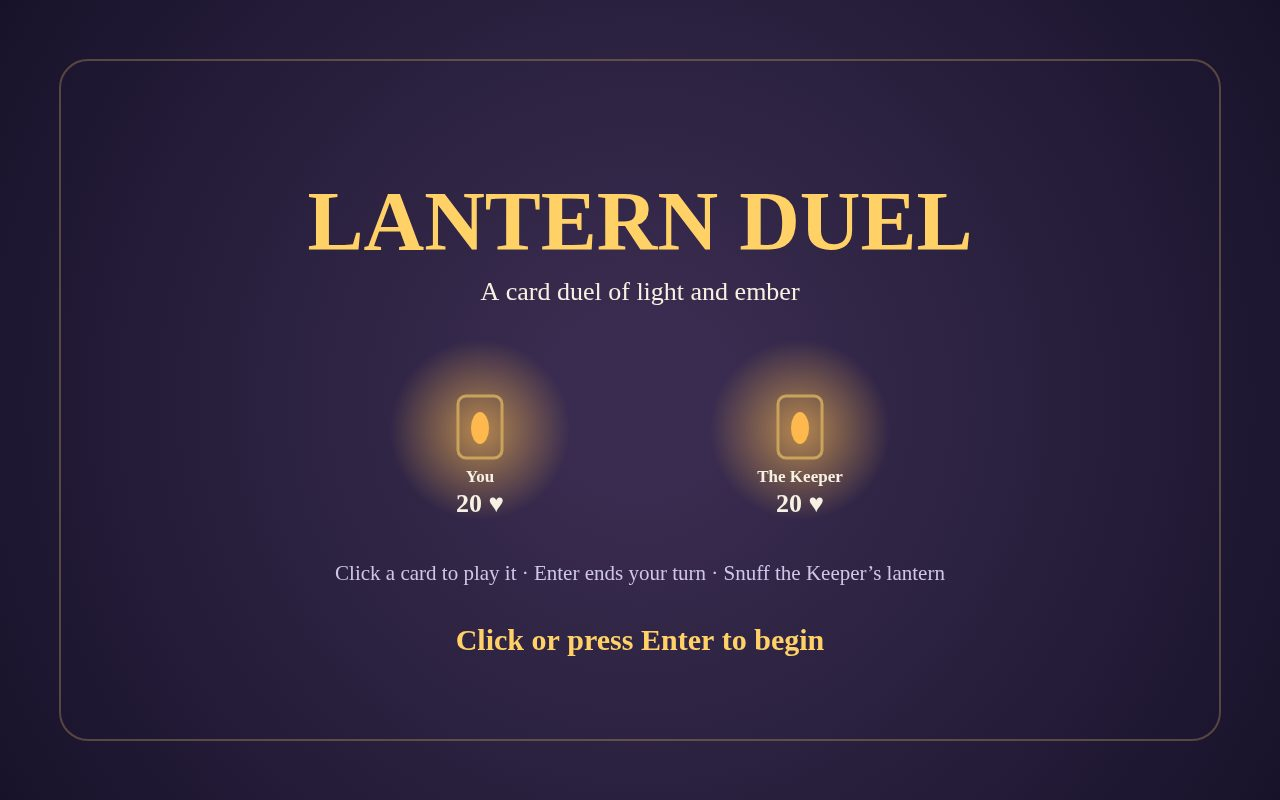
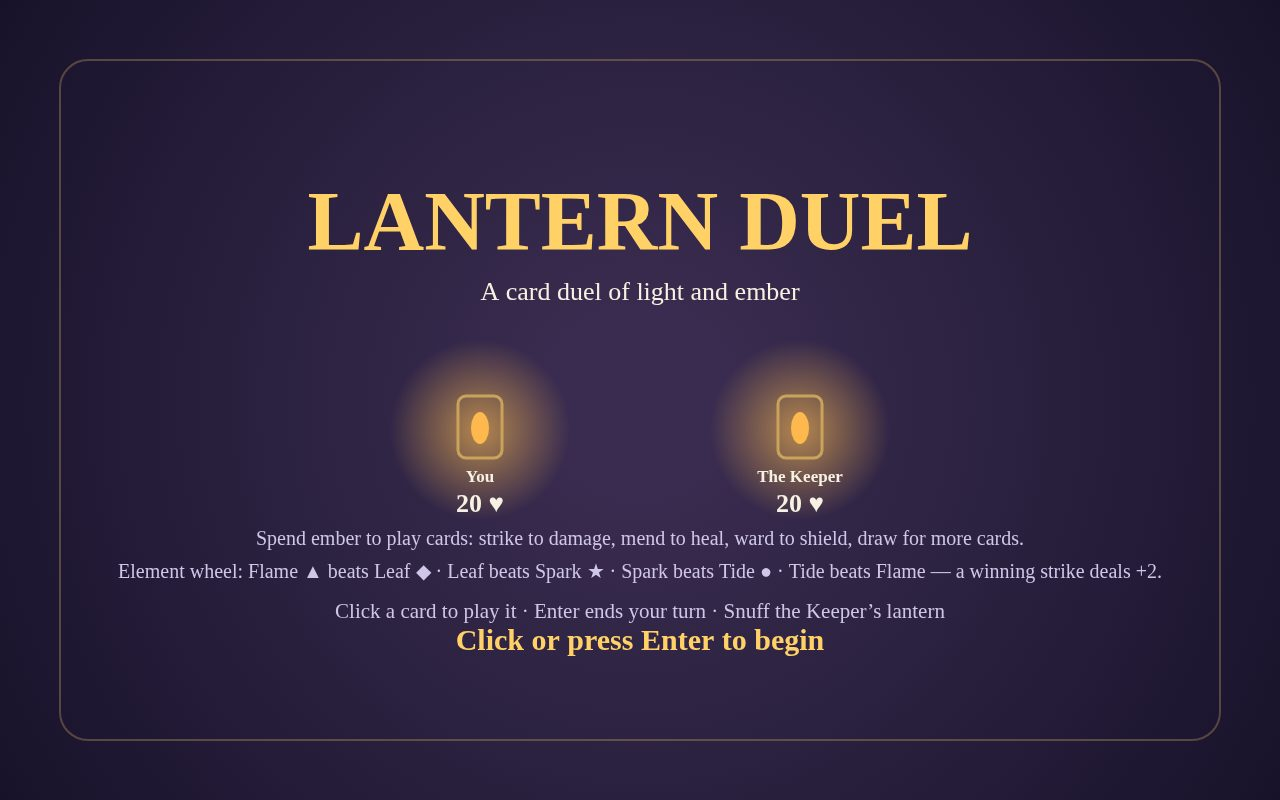
v2 polish: how-to-play, element wheel, floating numbers, deck counts

Changed region(s): [[0.0938, 0.6562, 0.9062, 0.7812]]

diff --git a/game/src/render.js b/game/src/render.js
@@ -110,8 +110,12 @@ export function render(ctx, state, hover) {
     ctx.fillText('A card duel of light and ember', W / 2, 300);
     lantern(ctx, W / 2 - 160, 430, START_HP, 'You', 0);
     lantern(ctx, W / 2 + 160, 430, START_HP, 'The Keeper', 0);
-    ctx.font = '21px Georgia, serif'; ctx.fillStyle = '#cfc6e8';
-    ctx.fillText('Click a card to play it · Enter ends your turn · Snuff the Keeper’s lantern', W / 2, 580);
+    // How to play
+    ctx.font = '20px Georgia, serif'; ctx.fillStyle = '#cfc6e8';
+    ctx.fillText('Spend ember to play cards: strike to damage, mend to heal, ward to shield, draw for more cards.', W / 2, 545);
+    ctx.fillText('Element wheel: Flame ▲ beats Leaf ◆ · Leaf beats Spark ★ · Spark beats Tide ● · Tide beats Flame — a winning strike deals +2.', W / 2, 578);
+    ctx.font = '21px Georgia, serif';
+    ctx.fillText('Click a card to play it · Enter ends your turn · Snuff the Keeper’s lantern', W / 2, 618);
     ctx.font = 'bold 30px Georgia, serif'; ctx.fillStyle = '#ffd166';
     ctx.fillText('Click or press Enter to begin', W / 2, 650);
     return;
@@ -122,6 +126,18 @@ export function render(ctx, state, hover) {
   k.hand.forEach((c, i) => drawCard(ctx, c, W / 2 - (k.hand.length * 92) / 2 + i * 92, 84, { faceDown: true }));
   lantern(ctx, 150, 190, k.hp, 'The Keeper', k.shield);
   lantern(ctx, 150, 560, p.hp, 'You', p.shield);
+  // Deck / discard counts
+  ctx.fillStyle = 'rgba(247,241,227,.75)'; ctx.font = '15px Georgia, serif'; ctx.textAlign = 'center';
+  ctx.fillText(`deck ${k.deck.length} · discard ${k.discard.length}`, 150, 322);
+  ctx.fillText(`deck ${p.deck.length} · discard ${p.discard.length}`, 150, 692);
+  // Floating damage / heal numbers over the lanterns
+  for (const f of state.floaters || []) {
+    const yBase = f.side === 'keeper' ? 150 : 520;
+    ctx.globalAlpha = Math.max(0, 1 - f.t / 1.4);
+    ctx.fillStyle = f.color; ctx.font = 'bold 34px Georgia, serif'; ctx.textAlign = 'center';
+    ctx.fillText(f.text, 150, yBase - f.t * 46);
+    ctx.globalAlpha = 1;
+  }
   energyPips(ctx, 96, 700, p.energy, 6);
   ctx.fillStyle = '#f7f1e3'; ctx.font = '15px Georgia, serif'; ctx.textAlign = 'left';
   ctx.fillText('ember', 96, 726);

diff --git a/game/src/world.js b/game/src/world.js
@@ -21,6 +21,7 @@ export function newGame(rng) {
     log: ['Two lanterns. One table. Keep yours lit.'],
     played: [], // cards shown face-up in the middle this turn
     anim: [],   // {card, from, t} simple slide/flip animations
+    floaters: [], // {text, side, t, color} rising damage/heal numbers over a lantern
     winner: null,
   };
   state.player.deck = buildDeck(rng);
@@ -62,13 +63,17 @@ export function playCard(state, who, card) {
     const blocked = Math.min(foe.shield, dmg);
     foe.shield -= blocked;
     foe.hp -= dmg - blocked;
+    state.floaters.push({ text: `-${dmg - blocked}`, side: who === 'player' ? 'keeper' : 'player', t: 0, color: '#ff8a7a' });
+    if (blocked) state.floaters.push({ text: `🛡${blocked}`, side: who === 'player' ? 'keeper' : 'player', t: 0.15, color: '#9fd0ff' });
     state.log.push(`${me.name} plays ${card.name}: ${dmg} damage${blocked ? ` (${blocked} warded)` : ''}.`);
   } else if (card.kind === 'mend') {
     me.hp = Math.min(START_HP, me.hp + card.power);
+    state.floaters.push({ text: `+${card.power}`, side: who, t: 0, color: '#9fe8a8' });
     state.log.push(`${me.name} plays ${card.name}: +${card.power} light.`);
   } else if (card.kind === 'ward') {
     me.shield += card.power;
     me.lastWardElement = card.element;
+    state.floaters.push({ text: `🛡+${card.power}`, side: who, t: 0, color: '#9fd0ff' });
     state.log.push(`${me.name} plays ${card.name}: +${card.power} shield.`);
   } else if (card.kind === 'draw') {
     draw(me, card.power);

diff --git a/game/src/main.js b/game/src/main.js
@@ -78,6 +78,8 @@ if (shot) {
     const dt = Math.min(0.05, (now - last) / 1000);
     last = now;
     state.anim.forEach((a) => { a.t = Math.min(1, a.t + dt * 2.2); });
+    state.floaters.forEach((f) => { f.t += dt; });
+    state.floaters = state.floaters.filter((f) => f.t < 1.4);
     keeperStep(dt);
     render(ctx, state, hover);
     requestAnimationFrame(loop);
